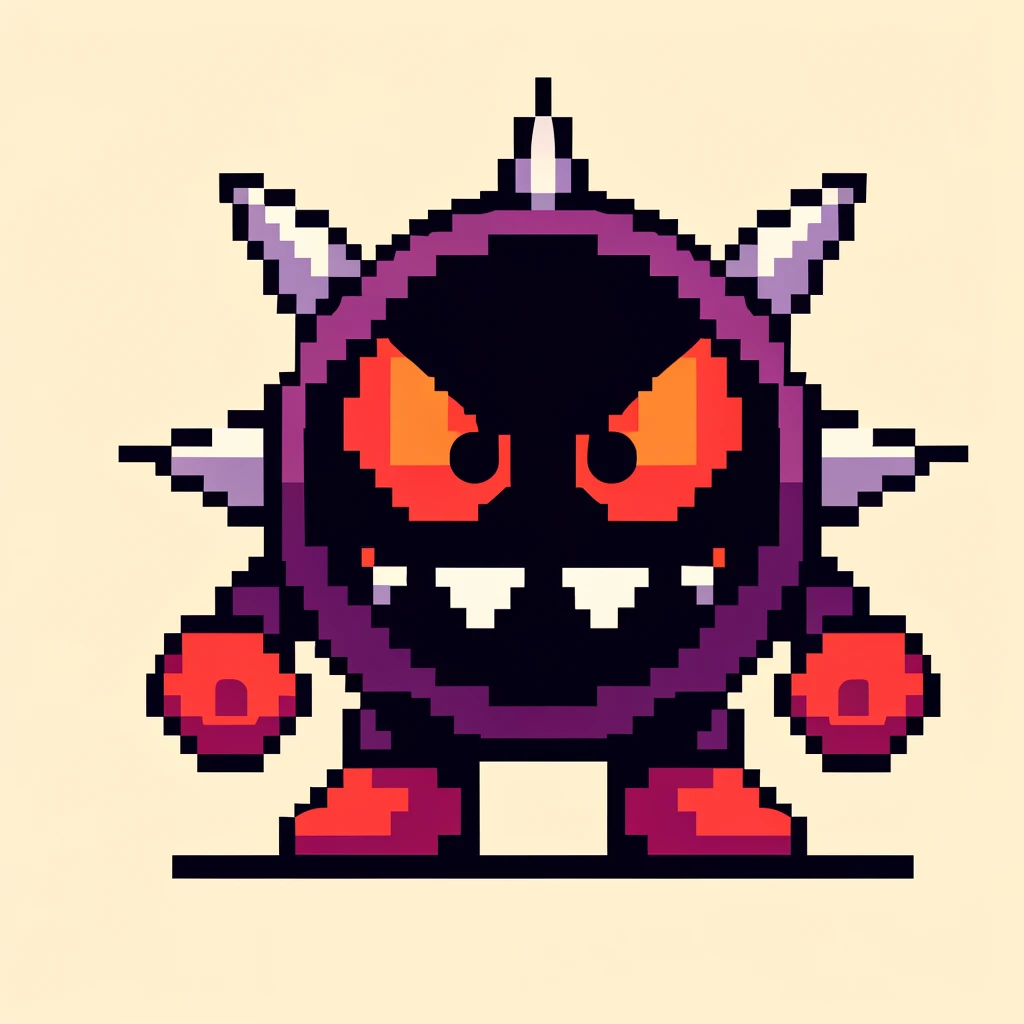
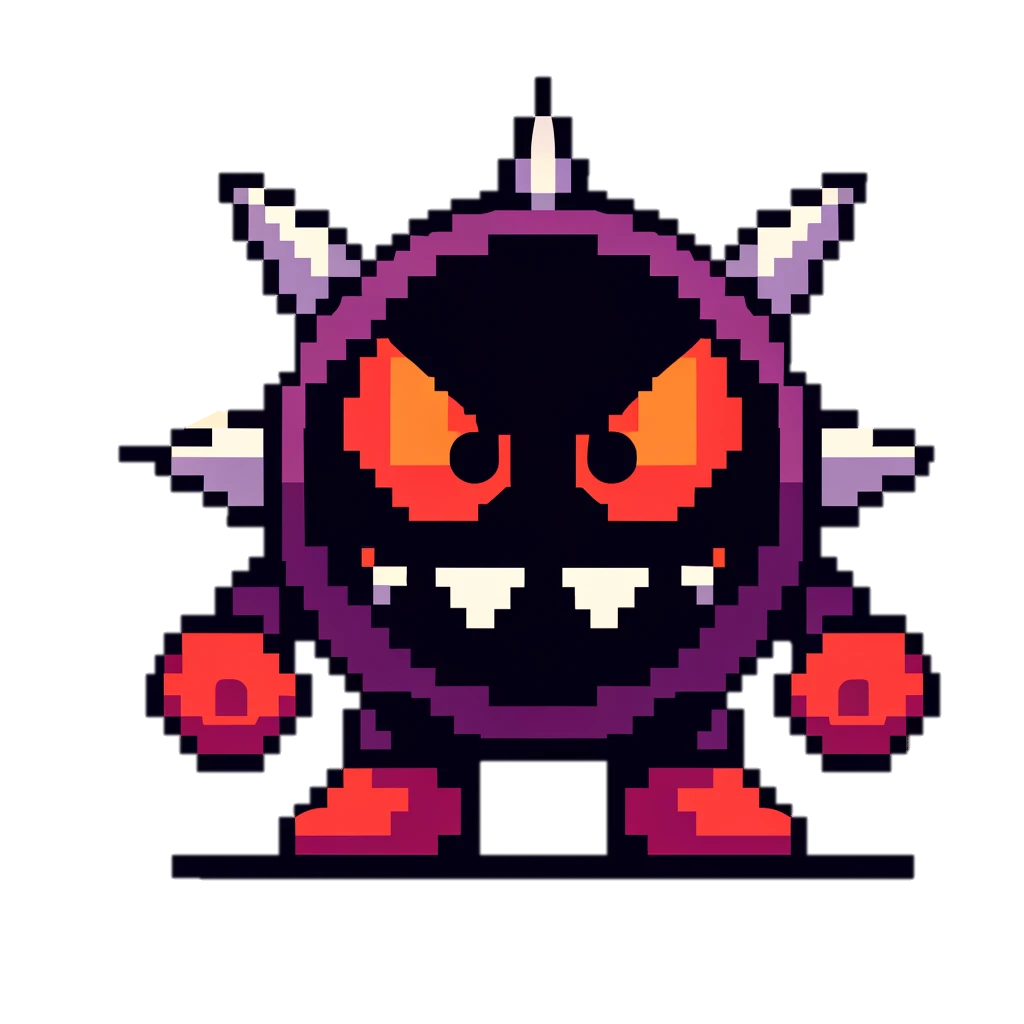
added enemy image

diff --git a/icytower_testing.html b/icytower_testing.html
@@ -20,6 +20,8 @@
         const ctx = canvas.getContext('2d');
         const backgroundImage = new Image();
         backgroundImage.src = 'backgroundIcyTower.png'; 
+        const enemyImage = new Image();
+        enemyImage.src = 'enemy.png';
 
         // Game settings
         const gravity = 0.5;
@@ -81,7 +83,7 @@
             if (Math.random() > 0.95) {
                 let type = Math.random() < 0.5 ? 'type1' : 'type2'; // 50% chance for each type
                 let x = type === 'type1' ? (100 - 20) / 2 : 0;
-                return { type: type, x: x, y: 0, width: 20, height: 20, moveDirection: 1 };
+                return { type: type, x: x, y: 0, width: 40, height: 40, moveDirection: 1 };
             }
             return null; // No enemy generated
         }
@@ -351,6 +353,8 @@
                 
             });
 
+            // Filter out platforms that have fallen below the canvas
+            platforms = platforms.filter(platform => platform.y <= canvas.height);
             
 
 
@@ -377,9 +381,10 @@
                 // Check if the platform has an enemy
                 if(platform.enemy) {
                     let enemy = platform.enemy;
+                    ctx.drawImage(enemyImage, platform.x + enemy.x, platform.y - enemy.height + 3, enemy.width, enemy.height);
                     //ctx.fillStyle = 'black'; // Enemy color
-                    ctx.fillStyle = enemy.type === 'type1' ? 'green' : 'orange';
-                    ctx.fillRect(platform.x + enemy.x, platform.y - enemy.height, enemy.width, enemy.height);
+                    //ctx.fillStyle = enemy.type === 'type1' ? 'green' : 'orange';
+                    //ctx.fillRect(platform.x + enemy.x, platform.y - enemy.height, enemy.width, enemy.height);
 
                     // Initial position if not set
                     //if (enemy.x === 0) {
